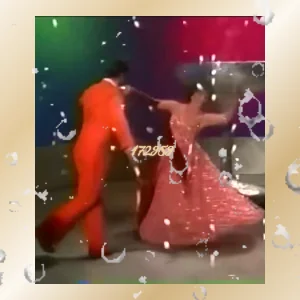
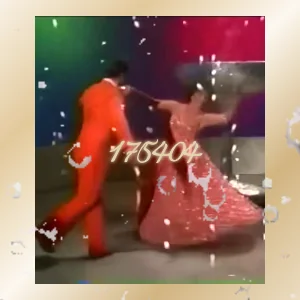
x

diff --git a/src/pages/2026/26-09/26-09-17/Clock.module.css b/src/pages/2026/26-09/26-09-17/Clock.module.css
@@ -6,7 +6,7 @@
       #d1b480 75%,
       #ebdcc1 100%);
   --display-color: #e1d5ac;
-  --accent-color: #ff4d00;
+
 
   position: relative;
   display: grid;
@@ -42,7 +42,7 @@
   inset: 0;
   z-index: 1;
   background-repeat: repeat;
-  background-size: 40rem;
+  background-size: 48rem;
   opacity: 0.8;
   pointer-events: none;
 }
@@ -59,7 +59,7 @@
   /* Spacing between digits */
   color: var(--display-color);
   font-family: 'Hammerhead', 'Courier New', Courier, monospace;
-  font-size: 7vmax;
+  font-size: 15vmax;
   /* DIGIT SIZE */
   font-variant-numeric: tabular-nums;
   letter-spacing: 0;
